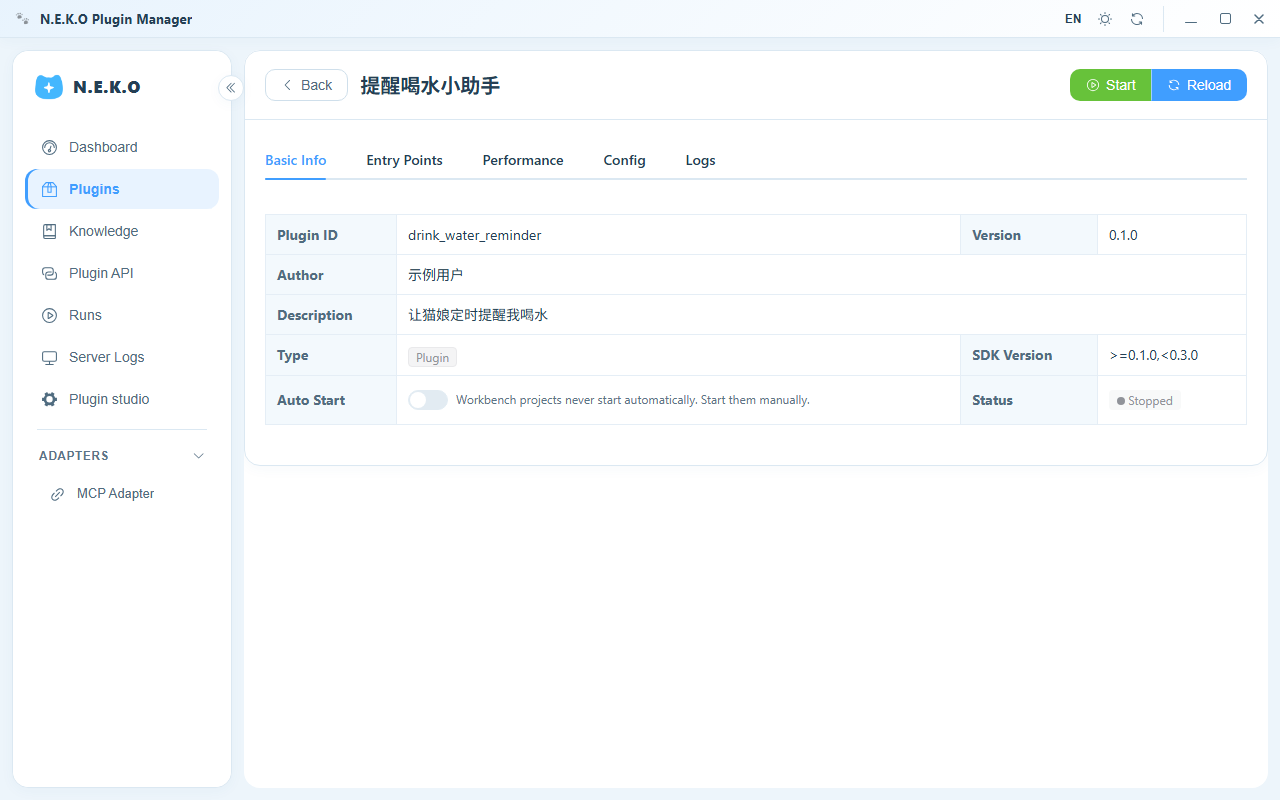
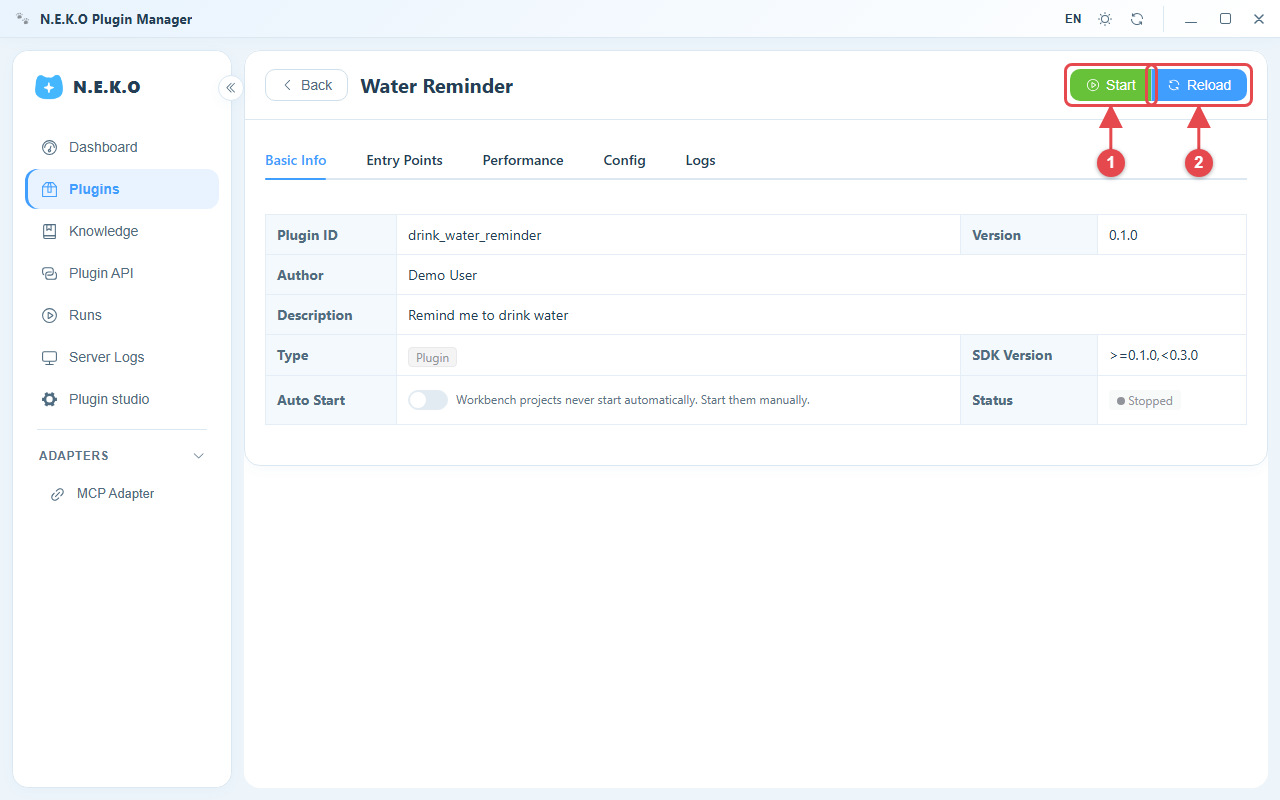
docs(plugin): 路线 A/B 与分享步骤配上带编号标注的真实截图
新增「怎么打开插件管理」小节，两条路线逐步配图；截图来自隔离的真实实例，
中英日各一套，演示数据本地化且不含个人路径。

Generated with [Devin](https://devin.ai)

Changed region(s): [[0.8438, 0.0625, 0.9688, 0.2188], [0.3125, 0.3125, 0.4375, 0.4062], [0.2812, 0.0938, 0.4062, 0.125]]

diff --git a/docs/plugins/coding-agents.md b/docs/plugins/coding-agents.md
@@ -23,34 +23,114 @@ Pick a route on the card (A or B) first, then copy.
 
 <CodingAgentOnboarding section="prompt" />
 
+## How to open Plugin Manager
+
+Both routes use the plugin manager. Open it from the N.E.K.O main window:
+
+![Opening Plugin Manager from the N.E.K.O main window](/images/plugins/onboarding/neko-open-plugin-manager-en.png)
+
+1. Hover over the catgirl and click the round paw button that appears.
+2. In the popup, turn on "NekoClaw Master Switch" and "User Plugin".
+3. Hover over the "User Plugin" row and click the "Management Panel" button that appears — Plugin Manager opens in a new window.
+
 ## 4. Route A: let the AI guide you from scratch
 
-1. **Open an empty folder** in your agent (anywhere — a dedicated folder for this project).
+1. **Open an empty folder** in your agent (anywhere — a dedicated folder for this project; see the official tutorials in your agent's card in section 2 for how).
 2. Send it the "Route A" message above.
-3. Click Allow whenever the AI asks to run something; it downloads, installs, and configures everything itself, which takes a while. When it gives you a URL, open the web page — the first time, fill in a model API key in the UI when prompted.
-4. In the web plugin manager, click **Start** to try your plugin; every later change reloads automatically.
-5. Next time you want to continue, just tell the AI "start N.E.K.O for me".
+3. Click Allow whenever the AI asks to run something. It downloads and installs everything itself — be patient, this takes a while.
+4. Open the URL it gives you. The first time, fill in a model API (if you don't have an API key yet, you can pick "Free Version" as the page's top tip says):
 
-![The plugin page has Start and Reload buttons](/images/plugins/onboarding/neko-plugin-detail-en.png)
+   ![Filling in the model API on first open](/images/plugins/onboarding/neko-api-setup-en.png)
+
+   1. Pick a core API provider.
+   2. Enter your API key.
+   3. Click "Save Settings".
+
+5. Open Plugin Manager (see [How to open Plugin Manager](#how-to-open-plugin-manager)).
+6. In the plugin list, click your plugin:
+
+   ![Clicking your plugin in the plugin list](/images/plugins/onboarding/neko-plugin-list-en.png)
+
+   1. Click your plugin card to open its detail page.
+
+7. Click "Start" to try it:
+
+   ![The Start and Reload buttons on the plugin detail page](/images/plugins/onboarding/neko-plugin-detail-en.png)
+
+   1. Click "Start" to run the plugin.
+   2. Changes reload automatically; click "Reload" here only if a change didn't take effect.
+
+8. After that, just tell the AI what you want changed; next time, say "start N.E.K.O for me".
 
 ## 5. Route B: use your installed N.E.K.O
 
-1. Install Git first: on the [official download page](https://git-scm.com/downloads), pick your OS and run the installer.
-2. Open the N.E.K.O plugin manager, go to **Plugin studio** in the sidebar, and click **New plugin**: enter a name and ID, pick a parent folder, click **Preview project** to confirm the standard files, then **Create plugin**. **Remember where this project folder is.**
+1. Install Git first (the Route B card has the official download link — run the installer).
+2. Open Plugin Manager (see [How to open Plugin Manager](#how-to-open-plugin-manager)).
+3. Click "Plugin studio" in the sidebar, then "New plugin":
 
-   ![Creating a plugin in Plugin studio and previewing the standard files](/images/plugins/onboarding/neko-studio-new-en.png)
+   ![The Plugin studio entry and the New plugin button](/images/plugins/onboarding/neko-studio-entry-en.png)
 
-3. **Open this plugin project folder** in your agent.
-4. Send it the "Route B" message above.
-5. Click **Start** on the plugin page to try it; after each change the AI makes, click **Reload**. If something fails, paste the error back to the AI as-is.
+   1. "Plugin studio" in the sidebar.
+   2. The "New plugin" button at the top right.
 
-![The plugin page has Start and Reload buttons](/images/plugins/onboarding/neko-plugin-detail-en.png)
+4. Fill in the name and ID, and click "Choose folder" to pick where the project goes:
+
+   ![Filling in the plugin name, ID and folder](/images/plugins/onboarding/neko-studio-new-en.png)
+
+   1. Plugin name (anything you like).
+   2. Plugin ID (starts with a lowercase letter).
+   3. "Choose folder" picks where the project is saved.
+
+5. Click "Preview project" to confirm the standard files (you will see AGENTS.md), then click "Create plugin":
+
+   ![Previewing the standard project files and creating the plugin](/images/plugins/onboarding/neko-studio-preview-en.png)
+
+   1. The boxed AGENTS.md and CLAUDE.md in the preview are the guides the AI will read.
+   2. Click "Create plugin" when it looks right.
+
+6. Done — **remember where the project folder is**:
+
+   ![The project info and source directory after creation](/images/plugins/onboarding/neko-studio-created-en.png)
+
+   1. "Source directory" is the project folder location.
+   2. "Open folder" shows the files inside.
+   3. "Open in plugin manager" jumps to the plugin detail page.
+
+7. **Open this project folder** in your agent and send it the "Route B" message above.
+8. Click "Open in plugin manager" to reach the plugin detail page, then "Start" to try it; after each change the AI makes, click "Reload":
+
+   ![The Start and Reload buttons on the plugin detail page](/images/plugins/onboarding/neko-plugin-detail-en.png)
+
+   1. Click "Start" to run the plugin.
+   2. After each change the AI makes, click "Reload" to see it.
+
+9. If something goes wrong, open the "Logs" tab and copy the error to the AI as-is:
+
+   ![Copying an error from the plugin logs](/images/plugins/onboarding/neko-plugin-logs-en.png)
+
+   1. Click the "Logs" tab.
+   2. Copy the lines marked ERROR and send them to the AI.
 
 ## 6. Share it with others
 
-On Route B, click **Build package** in the studio; on Route A, just ask the AI to package it. Either way you get a `.neko-plugin` file you can send to friends — they click **Import** on the Plugins page to install it. Publishing to the Market needs a source build, so only Route A can publish directly — see [Publish a Plugin](/plugins/cli).
+**Route B**: on your project page in the studio, click "Build package":
 
-![Friends install your .neko-plugin package via Import on the Plugins page](/images/plugins/onboarding/neko-import-dialog-en.png)
+![The Build package button in the studio](/images/plugins/onboarding/neko-studio-package-en.png)
+
+1. Click "Build package" to get a `.neko-plugin` file.
+
+**Route A**: just ask the AI to package it.
+
+A friend who gets the `.neko-plugin` file clicks "Import" in Plugin Manager and drops it in:
+
+![The Import button on the Plugins page](/images/plugins/onboarding/neko-import-en.png)
+
+![Dropping a plugin package into the import dialog](/images/plugins/onboarding/neko-import-dialog-en.png)
+
+1. Click "Import" on the Plugins page.
+2. Drop the `.neko-plugin` file into the box, or click to choose it.
+
+Publishing to the Market needs a source build — only Route A can publish directly; see [Publish a Plugin](/plugins/cli).
 
 > If the new project has no AGENTS.md, your N.E.K.O version is too old — update to the latest version and try again.
 

diff --git a/docs/zh-CN/plugins/coding-agents.md b/docs/zh-CN/plugins/coding-agents.md
@@ -23,34 +23,114 @@ description: 不会写代码也能做 N.E.K.O 插件：选一个 Coding Agent，
 
 <CodingAgentOnboarding section="prompt" />
 
+## 怎么打开插件管理
+
+路线 A 和路线 B 都要用到插件管理。在 N.E.K.O 主界面这样打开：
+
+![在 N.E.K.O 主界面打开插件管理](/images/plugins/onboarding/neko-open-plugin-manager.png)
+
+1. 把鼠标移到猫娘身上，点出现的圆形「猫爪」按钮。
+2. 在弹出的面板里打开「猫爪总开关」和「用户插件」开关。
+3. 鼠标悬停「用户插件」那一行，点旁边出现的「管理面板」，插件管理就会在新窗口打开。
+
 ## 4. 路线 A：让 AI 从头带你做
 
-1. 用你的 Agent **打开一个空文件夹**（任意位置，专门用来放这个项目）。
+1. 用你的 Agent **打开一个空文件夹**（任意位置，专门放这个项目；具体怎么打开，看第 2 节你选的 Agent 卡片里的官方教程）。
 2. 把上面「路线 A」那段话发给它。
-3. AI 请求执行操作时点「允许」；它会自己下载、安装、配置，准备时间比较长。等它告诉你网址后打开网页，第一次按提示在界面里填一次模型 API。
-4. 在网页的插件管理里点「启动」试用你的插件；之后 AI 每次改完会自动重载。
-5. 下次想继续，对 AI 说「帮我启动 N.E.K.O」即可。
+3. AI 请求执行操作时点「允许」。它会自己下载和安装，准备时间比较长，耐心等。
+4. 打开它给你的网址。第一次要填一次模型 API（还没有 API Key 的话，可以按页面顶部提示选「免费版」）：
 
-![插件页右上角有「启动」「重载」按钮](/images/plugins/onboarding/neko-plugin-detail.png)
+   ![第一次打开网页时填写模型 API](/images/plugins/onboarding/neko-api-setup.png)
+
+   1. 选择一个核心 API 服务商。
+   2. 填入你的 API Key。
+   3. 点「保存设置」。
+
+5. 打开插件管理（方法见[怎么打开插件管理](#怎么打开插件管理)）。
+6. 在插件列表里点你的插件：
+
+   ![插件列表里点进你的插件](/images/plugins/onboarding/neko-plugin-list.png)
+
+   1. 点你的插件卡片，进入详情页。
+
+7. 点「启动」试用：
+
+   ![插件详情页的启动和重载按钮](/images/plugins/onboarding/neko-plugin-detail.png)
+
+   1. 点「启动」运行插件。
+   2. 之后 AI 改完会自动重载；没生效时再点「重载」。
+
+8. 之后直接跟 AI 说想改什么就行；下次想继续，对它说「帮我启动 N.E.K.O」。
 
 ## 5. 路线 B：用已装好的 N.E.K.O
 
-1. 先装好 Git：[官网下载页](https://git-scm.com/downloads)选你的系统，用安装包一路下一步。
-2. 打开 N.E.K.O 插件管理，左侧进「插件制作工作台」，点「新建插件」：填名称和 ID、选好父目录、点「预览项目」确认文件齐全后点「创建插件」。**记住项目文件夹的位置**。
+1. 先装好 Git（路线 B 卡片里有官网下载链接，用安装包一路下一步）。
+2. 打开插件管理（方法见[怎么打开插件管理](#怎么打开插件管理)）。
+3. 左侧点「插件制作工作台」，再点「新建插件」：
 
-   ![在插件制作工作台新建插件，预览标准文件](/images/plugins/onboarding/neko-studio-new.png)
+   ![插件制作工作台入口和新建插件按钮](/images/plugins/onboarding/neko-studio-entry.png)
 
-3. 用你的 Agent **打开这个插件项目文件夹**。
-4. 把上面「路线 B」那段话发给它。
-5. 插件页点「启动」试用，之后每次 AI 改完点「重载」刷新效果；出错就把报错原样发给 AI。
+   1. 左侧的「插件制作工作台」。
+   2. 右上角「新建插件」按钮。
 
-![插件页右上角有「启动」「重载」按钮](/images/plugins/onboarding/neko-plugin-detail.png)
+4. 填好名称和 ID，点「选择文件夹」选一个放项目的地方：
+
+   ![填写插件名称、ID 并选择文件夹](/images/plugins/onboarding/neko-studio-new.png)
+
+   1. 插件名称（随便起）。
+   2. 插件 ID（小写字母开头）。
+   3. 「选择文件夹」选项目放哪。
+
+5. 点「预览项目」确认文件齐全（能看到 AGENTS.md），再点「创建插件」：
+
+   ![预览标准项目文件后点创建插件](/images/plugins/onboarding/neko-studio-preview.png)
+
+   1. 预览里框出的 AGENTS.md 和 CLAUDE.md 就是给 AI 看的说明书。
+   2. 确认后点「创建插件」。
+
+6. 创建完成。**记住项目文件夹的位置**：
+
+   ![创建完成后的项目资料和源码目录](/images/plugins/onboarding/neko-studio-created.png)
+
+   1. 「源码目录」就是项目文件夹的位置。
+   2. 点「打开文件夹」可以直接看到里面的文件。
+   3. 点「在插件管理中打开」可以跳到插件详情页。
+
+7. 用你的 Agent **打开这个项目文件夹**，把上面「路线 B」那段话发给它。
+8. 点「在插件管理中打开」进入插件详情页，点「启动」试用；之后每次 AI 改完，点「重载」看效果：
+
+   ![插件详情页的启动和重载按钮](/images/plugins/onboarding/neko-plugin-detail.png)
+
+   1. 点「启动」运行插件。
+   2. 每次 AI 改完，点「重载」刷新效果。
+
+9. 如果出错，打开「日志」页，把报错复制下来原样发给 AI：
+
+   ![插件日志页里复制报错](/images/plugins/onboarding/neko-plugin-logs.png)
+
+   1. 点「日志」标签页。
+   2. 复制标着 ERROR 的那几行发给 AI。
 
 ## 6. 想分享给别人
 
-路线 B 在工作台点「打包下载」，路线 A 直接让 AI 帮你打包，都能得到一个 `.neko-plugin` 安装包发给朋友，对方在「插件管理」页点「导入」就能用。正式发布到插件市场需要源码版——走路线 A 的可以直接发布，看[发布插件](/zh-CN/plugins/cli)。
+**路线 B**：在工作台你的项目页面点「打包下载」：
 
-![朋友拿到 .neko-plugin 安装包后，在插件管理页点导入](/images/plugins/onboarding/neko-import-dialog.png)
+![工作台里的打包下载按钮](/images/plugins/onboarding/neko-studio-package.png)
+
+1. 点「打包下载」得到一个 `.neko-plugin` 安装包。
+
+**路线 A**：直接让 AI 帮你打包。
+
+朋友拿到 `.neko-plugin` 文件后，在插件管理点「导入」，把文件拖进去就能用：
+
+![插件管理页的导入按钮](/images/plugins/onboarding/neko-import.png)
+
+![导入对话框里拖入插件包](/images/plugins/onboarding/neko-import-dialog.png)
+
+1. 在插件管理页点「导入」。
+2. 把 `.neko-plugin` 文件拖进框里，或点击选择文件。
+
+正式发布到插件市场需要源码版——只有走路线 A 的可以直接发布，看[发布插件](/zh-CN/plugins/cli)。
 
 > 如果新建的项目里没有 AGENTS.md，说明你的 N.E.K.O 版本较旧，请先更新到最新版本再重试。
 
